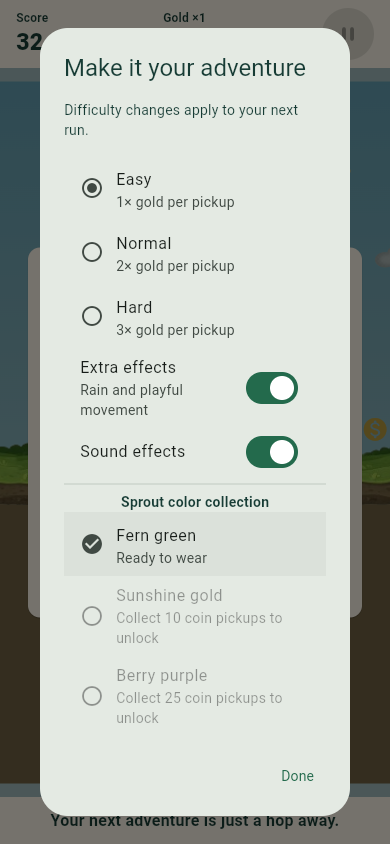
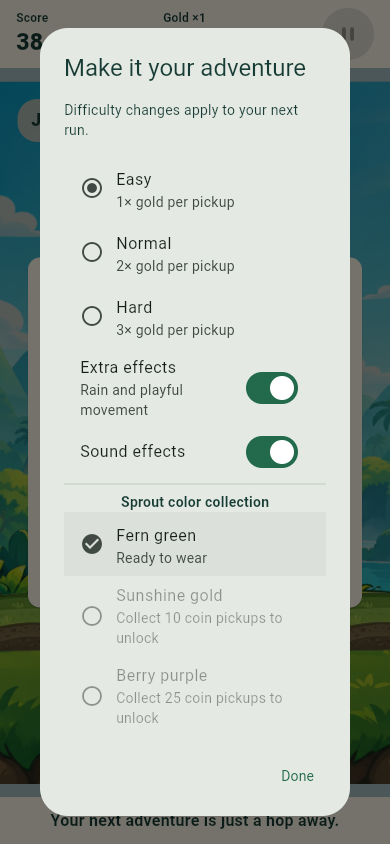
test: verify the adventure redesign and record phone installation

diff --git a/docs/VALIDATION.md b/docs/VALIDATION.md
@@ -1,5 +1,41 @@
 # Validation record
 
+## November 1, 2026 — interactive home and illustrated playfields (1.4.0+8)
+
+- Captured and inspected the current home/first-play flow before editing. The
+  numbered review, research sources, art prompts, scope and evidence limits are
+  in HOME_EXPERIENCE.md. Exact before/after comparison captures were inspected
+  at matching 390×844 browser dimensions.
+- Home now has a selected-character jungle stage, tap-to-hop interaction, larger
+  Play action, picture-based shop/collection cards and a treasure destination.
+  Custom cards expose named screen-reader tap actions. No perpetual home ticker
+  is introduced; reduced effects/device animation settings suppress the hop.
+- Gameplay now uses three original illustrated backdrops, slow background drift,
+  bounded scenery crossfades, world names and brief coin sparkles. Camera shifts
+  ground, collectibles and actors together; physics, difficulty, spawning,
+  character prices and coin/gift amounts are unchanged. Flat underground fill
+  is replaced by the illustrated foreground.
+- Format checks and analysis clean. All 60 tests passed. Three new tests verify
+  the home hop and all six destinations, accessible card actions, reduced motion,
+  and simulation-timed pickup feedback. Existing small/large-text phone/tablet,
+  animation, storage, shop, gift and game regressions pass.
+- Web build and full headless browser smoke flow passed with zero external
+  requests, JavaScript errors or failed HTTP responses. The flow now includes
+  the home hop, plus the four character previews and all prior economy/privacy/
+  persistence checks. Home, hop, first play and both comparison captures were
+  opened and inspected. All 31 local README references resolve.
+- Android debug build passed, with all three scenery assets confirmed bundled.
+  Native compatibility and official 16 KB zipalign checks passed. Update install
+  on the connected phone succeeded, preserving app data; package metadata confirms
+  1.4.0 / versionCode 8, minimum API 24 and target API 36. The phone was locked
+  during the attempted screen check; that capture was rejected and removed.
+  Native layout/feel and frame pacing therefore remain unverified at this point.
+- Art/review commit: `00cf860`. Implementation commit: `c168fd4`. Gradle and
+  the local preview server were stopped. Android Studio/emulator were not used.
+- These checks validate implementation and visible layout, not children's
+  enjoyment or retention. Short supervised play sessions with ages 6–8 and
+  parents remain the next evidence needed for those outcomes.
+
 ## November 1, 2026 — cartoon flying obstacle and simpler results (1.3.1+7)
 
 - Removed the pickup/multiplier calculation from pause/results; final score,

diff --git a/docs/HOME_EXPERIENCE.md b/docs/HOME_EXPERIENCE.md
@@ -76,3 +76,29 @@ landscapes; originals retained in the tool output folder and copied into runtime
 The three outputs were inspected before use. Background decode width is capped
 at 1000px and shared between home/game for the jungle asset. The home hop uses
 the existing poses, with no independent perpetual animation loop.
+
+## Inspected result
+
+1. **Home — working, clearer task entry.** [Current home](../screenshots/home-audit/03-home-after.png),
+   [comparison](../screenshots/home-audit/home-comparison.png).
+   The selected character stands in an illustrated clearing and responds to a
+   tap with the real jump/landing poses. Play is larger and higher in the screen.
+   Shop/collection use character pictures, gifts use the chest, and settings and
+   grown-ups actions remain visible. Hop and all six destinations passed action
+   checks; the custom cards expose named screen-reader tap actions. Large text
+   reflows/scrolls rather than clipping controls. This improves hierarchy; it
+   does not establish that children prefer it.
+2. **First play — working, more visual depth.** [Current playfield](../screenshots/home-audit/04-first-play-after.png),
+   [comparison](../screenshots/home-audit/play-comparison.png).
+   Illustrated scenery replaces the flat background/underground. The trail,
+   coins and character stay distinct in the inspected frame. Slow background
+   drift and short collection sparkles are decorative, disabled with reduced
+   effects/motion. Jump, pause, results and the existing economy flows passed.
+   Device frame pacing, long sessions and actual child comprehension/enjoyment
+   still need play-testing; screenshots cannot establish those outcomes.
+
+Fresh baseline/current screenshots and the exact side-by-side comparison
+captures were opened and inspected before acceptance. Automated checks comprise
+60 passing tests, clean analysis, and a headless browser flow with no external
+requests, JavaScript errors or failed HTTP responses. The browser includes the
+new home hop as well as shop, previews, gifts, privacy and persistence.
